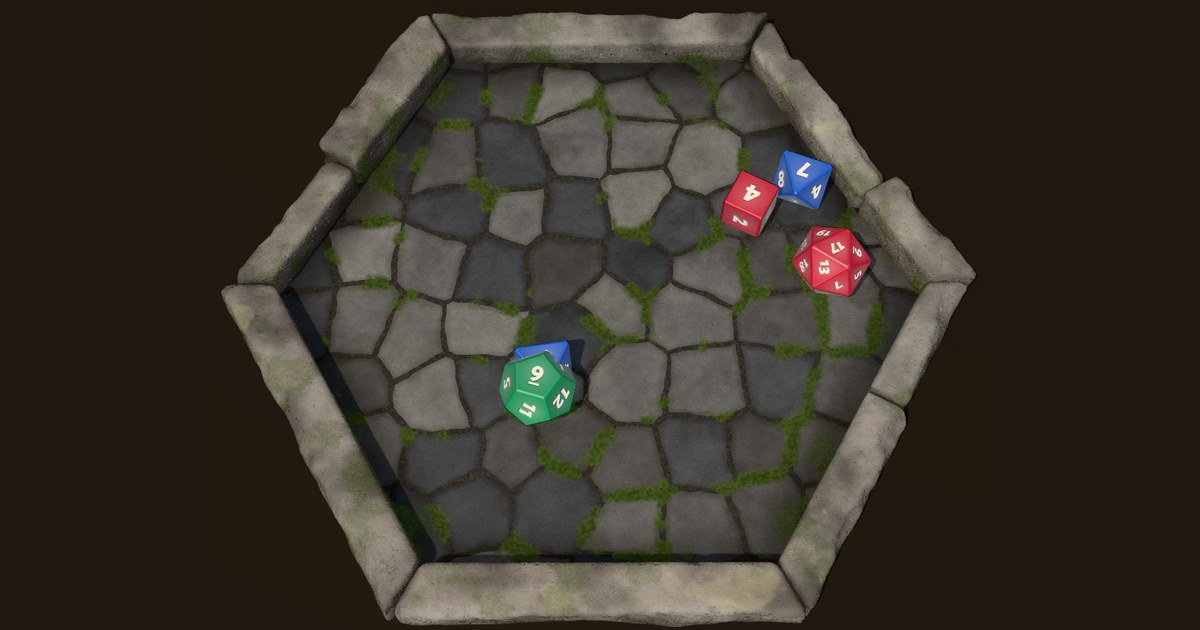
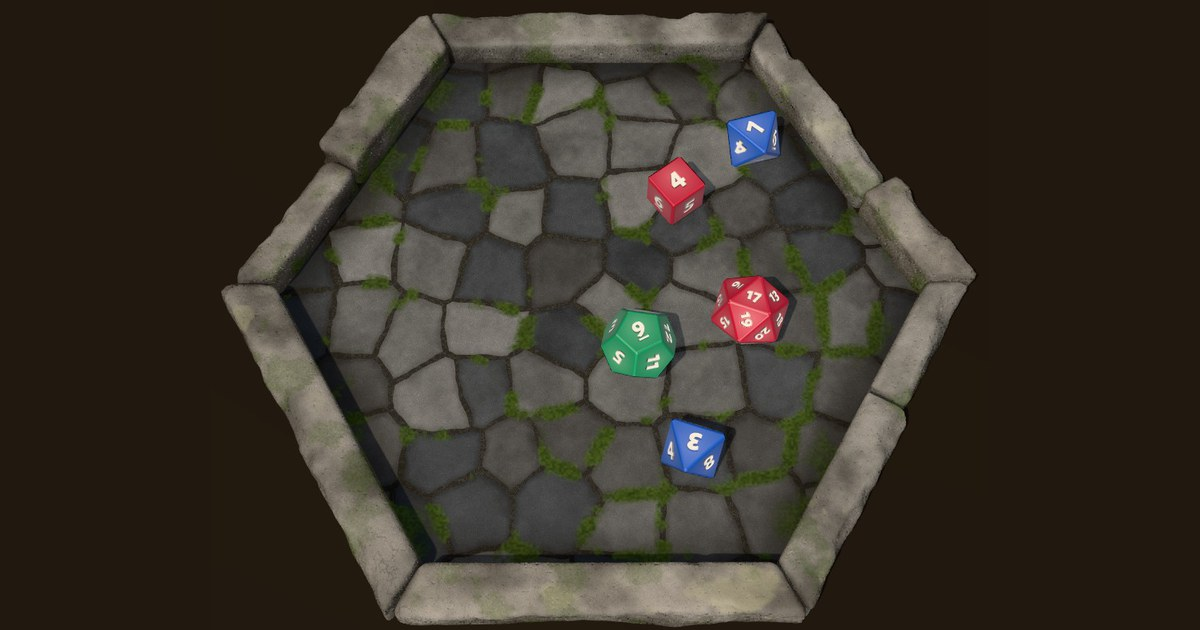
Aggiornate immagini Con nuova fisica per la landing page.

Changed region(s): [[0.4008, 0.181, 0.74, 0.6937], [0.555, 0.6635, 0.6167, 0.754]]

diff --git a/public/build/assets/landing-B5B5URAN.js b/public/build/assets/landing-B5B5URAN.js
@@ -1,0 +1,7 @@
+function __vite__mapDeps(indexes) {
+  if (!__vite__mapDeps.viteFileDeps) {
+    __vite__mapDeps.viteFileDeps = ["assets/landing-stage-B61ssiWm.js","assets/scene-C08E-fg2.js","assets/presets-C0xyDY5r.js"]
+  }
+  return indexes.map((i) => __vite__mapDeps.viteFileDeps[i])
+}
+import{P as L,F as T,T as b}from"./presets-C0xyDY5r.js";const P="modulepreload",$=function(e){return"/build/"+e},w={},O=function(n,s,m){let f=Promise.resolve();if(s&&s.length>0){const l=document.getElementsByTagName("link");f=Promise.all(s.map(t=>{if(t=$(t),t in w)return;w[t]=!0;const r=t.endsWith(".css"),o=r?'[rel="stylesheet"]':"";if(!!m)for(let h=l.length-1;h>=0;h--){const g=l[h];if(g.href===t&&(!r||g.rel==="stylesheet"))return}else if(document.querySelector(`link[href="${t}"]${o}`))return;const i=document.createElement("link");if(i.rel=r?"stylesheet":P,r||(i.as="script",i.crossOrigin=""),i.href=t,document.head.appendChild(i),r)return new Promise((h,g)=>{i.addEventListener("load",h),i.addEventListener("error",()=>g(new Error(`Unable to preload CSS for ${t}`)))})}))}return f.then(()=>n()).catch(l=>{const t=new Event("vite:preloadError",{cancelable:!0});if(t.payload=l,window.dispatchEvent(t),!t.defaultPrevented)throw l})},a=(e,n=document)=>n.querySelector(e),u=(e,n=document)=>[...n.querySelectorAll(e)],R=document.documentElement;R.classList.add("js-ready");const _=matchMedia("(prefers-reduced-motion: reduce)").matches,x=matchMedia("(max-width:899px)"),d=a("#stage"),A=a("#c");let c=null,E="welcome";function k(){(x.matches?a("#diceSlot"):a(".stage-col")).append(d)}k();x.addEventListener("change",k);const I=new IntersectionObserver(e=>{for(const n of e)n.isIntersecting&&(n.target.classList.add("is-in"),I.unobserve(n.target))},{rootMargin:"0px 0px -8% 0px",threshold:.05});u(".reveal").forEach(e=>I.observe(e));function M({who:e,color:n,formula:s,total:m}){a("#toastWho").textContent=e,a("#toastFormula").textContent=s,a("#toastTotal").textContent=m,a("#toastDot").style.background=n}function q(e){!c||x.matches||(e==="throw"?c.table():e==="welcome"&&c.opening())}function C(e){e!==E&&(E=e,d.dataset.state=e,q(e))}const B=new IntersectionObserver(e=>{for(const n of e)n.isIntersecting&&C(n.target.dataset.state)},{rootMargin:"-45% 0px -45% 0px"});u("[data-state]").filter(e=>e!==d).forEach(e=>B.observe(e));function D(){try{const e=document.createElement("canvas");return!!(e.getContext("webgl2")||e.getContext("webgl"))}catch{return!1}}async function y(){if(_||!D())return;try{const{startStage:s}=await O(()=>import("./landing-stage-B61ssiWm.js"),__vite__mapDeps([0,1,2]));c=s(d,A,{onToast:M})}catch{return}setTimeout(()=>d.classList.add("is-live"),250),E==="throw"?c.table():c.opening();let e=!0;const n=()=>c.setPaused(!e||document.hidden);new IntersectionObserver(([s])=>{e=s.isIntersecting,n()}).observe(d),document.addEventListener("visibilitychange",n)}if(x.matches){const e=new IntersectionObserver(([n])=>{n.isIntersecting&&(e.disconnect(),y())},{rootMargin:"100% 0px"});e.observe(a("#diceSlot"))}else(window.requestIdleCallback||(e=>setTimeout(e,200)))(y);const S=u(".dname");S.forEach(e=>e.addEventListener("click",()=>{S.forEach(n=>n.setAttribute("aria-pressed",String(n===e))),a("#dnoteOut").textContent=e.nextElementSibling.textContent,c&&(C("dice"),c.die(e.dataset.type))}));const v=a("#swatches");if(v){const e=[...L.map(t=>({name:t.name,hex:t.hex})),...T.map(t=>({name:t.name,hex:t.hex,texture:t.texture}))],n=t=>{const r=parseInt(t.slice(1),16),o=r>>16,p=r>>8&255,i=r&255;return .2126*o+.7152*p+.0722*i<90},s=u(".die"),m=u(".die-name"),f=a("#youDot"),l=(t,r)=>{u(".sw",v).forEach(o=>o.setAttribute("aria-pressed",String(o===r))),f.style.background=t.texture?`url(${b(t.texture)}) center/cover`:t.hex,s.forEach(o=>{o.style.backgroundColor=t.hex,o.style.backgroundImage=t.texture?`url(${b(t.texture)})`:"none",o.classList.toggle("is-dark",n(t.hex))}),m.forEach(o=>{o.textContent=t.name})};e.forEach(t=>{const r=document.createElement("button");r.type="button",r.className="sw",r.style.backgroundColor=t.hex,r.title=t.name,t.texture&&(r.style.backgroundImage=`url(${b(t.texture)})`),r.setAttribute("aria-label","Dadi "+t.name),r.setAttribute("aria-pressed",String(t.name==="Oro")),r.addEventListener("click",()=>l(t,r)),v.append(r)})}

diff --git a/public/build/assets/landing-stage-B61ssiWm.js b/public/build/assets/landing-stage-B61ssiWm.js
@@ -1,0 +1,1 @@
+import{c as p}from"./scene-C08E-fg2.js";import"./presets-C0xyDY5r.js";const o={rubino:"#b3243a",zaffiro:"#2457b3",smeraldo:"#1f8a5b",ametista:"#7a3fb0",osso:"#e8dcc0",oro:"#d9a72e"},b={who:"Elara",color:o.rubino,list:["d20"],values:[17],seed:20261024},E=[{who:"Elara",color:o.rubino,list:["d6","d20"],values:[4,17],seed:100024},{who:"Thorin",color:o.zaffiro,list:["d8","d8"],values:[3,7],seed:200010},{who:"Mira",color:o.smeraldo,list:["d12"],values:[9],seed:300024}],x={d4:{color:o.oro,throws:[{value:3,seed:1101},{value:1,seed:2202},{value:4,seed:3303}]},d6:{color:o.rubino,throws:[{value:5,seed:4404},{value:2,seed:5505},{value:6,seed:6606}]},d8:{color:o.zaffiro,throws:[{value:8,seed:7707},{value:3,seed:8808},{value:5,seed:9909}]},d10:{color:o.smeraldo,throws:[{value:10,seed:1212},{value:4,seed:2323},{value:7,seed:3434}]},d12:{color:o.ametista,throws:[{value:12,seed:4545},{value:6,seed:5656},{value:2,seed:6767}]},d20:{color:o.osso,throws:[{value:20,seed:7878},{value:11,seed:8989},{value:1,seed:9090}]}},I=["d4","d6","d8","d10","d12","d20"];function T(t){const l={};return t.forEach(s=>{l[s]=(l[s]||0)+1}),I.filter(s=>l[s]).map(s=>l[s]+s).join(" + ")}function R(t,l,{onToast:s}){const h=matchMedia("(max-width:899px)"),i=p(l,t,{pixelRatioMax:1.5,logoInset:()=>({px:h.matches?64:150,side:"top"})});let m=1,d=[];const n={},f=e=>e.reduce((a,u)=>a+u,0),r=e=>i.play({id:m++,playerId:0,color:e.color,list:e.list,values:e.values,seed:e.seed,onDone:()=>s({who:e.who,color:e.color,formula:T(e.list),total:f(e.values)})}),w=(e,a)=>d.push(setTimeout(a,e)),c=()=>{d.forEach(clearTimeout),d=[]};return{opening(){c(),r(b)},table(){c(),E.forEach((e,a)=>w(a*650,()=>r(e)))},die(e){c();const a=x[e],u=n[e]=((n[e]??-1)+1)%a.throws.length,v=a.throws[u];r({who:"Tu",color:a.color,list:[e],values:[v.value],seed:v.seed})},setPaused:i.setPaused}}export{R as startStage};

diff --git a/tests/js/landing-rolls.test.js b/tests/js/landing-rolls.test.js
@@ -1,7 +1,7 @@
 import { describe, expect, it } from 'vitest';
 import * as THREE from 'three';
 import { PROTOS, SIDES, resultFace } from '../../resources/js/dice/geometry.js';
-import { plan, simulate } from '../../resources/js/dice/physics.js';
+import { insideTray, plan, simulate } from '../../resources/js/dice/physics.js';
 import { DICE, OPENING, TABLE, formula } from '../../resources/js/landing-rolls.js';
 
 // Ogni lancio della demo: valori nel range del tipo, seed valido, e la faccia che il dado disegnato
@@ -29,6 +29,14 @@ describe('lanci fissi della landing', () => {
       q.set(F[o + 3], F[o + 4], F[o + 5], F[o + 6]).multiply(qRs[i]);
       expect(PROTOS[type].faces[resultFace(PROTOS[type], q)].value).toBe(r.values[i]);
     });
+  });
+
+  it('i dadi dei tre giocatori si fermano affiancati, non uno sull\'altro', () => {
+    const rest = TABLE.flatMap((r) => { const sim = simulate(r.list, r.seed); return r.list.map((_, i) => { const F = sim.frames[i], o = (sim.steps - 1) * 7; return { who: r.who, x: F[o], z: F[o + 2] }; }); });
+    rest.forEach((a) => expect(insideTray(a.x, a.z, 1.2), a.who).toBe(true));
+    for (let i = 0; i < rest.length; i++) for (let j = i + 1; j < rest.length; j++) {
+      expect(Math.hypot(rest[i].x - rest[j].x, rest[i].z - rest[j].z), `${rest[i].who} e ${rest[j].who}`).toBeGreaterThan(2.4);
+    }
   });
 
   it('il totale di ogni giocatore coincide con quello mostrato nella pagina (21, 10 e 9)', () => {

diff --git a/resources/js/landing-rolls.js b/resources/js/landing-rolls.js
@@ -10,10 +10,12 @@ export const COLORS = {
 export const OPENING = { who: 'Elara', color: COLORS.rubino, list: ['d20'], values: [17], seed: 20261024 };
 
 // Terzo passo: tre giocatori lanciano uno dopo l'altro, e i lanci restano insieme sul tavolo.
+// Nel tavolo vero ogni lancio ha la sua fisica e i dadi di lanci diversi possono sovrapporsi: qui i seed sono scelti
+// (cercando) perché i dadi dei tre lanci si fermino affiancati, a più di 2,7 di distanza.
 export const TABLE = [
-  { who: 'Elara', color: COLORS.rubino, list: ['d6', 'd20'], values: [4, 17], seed: 7311 },
-  { who: 'Thorin', color: COLORS.zaffiro, list: ['d8', 'd8'], values: [3, 7], seed: 90417 },
-  { who: 'Mira', color: COLORS.smeraldo, list: ['d12'], values: [9], seed: 55021 },
+  { who: 'Elara', color: COLORS.rubino, list: ['d6', 'd20'], values: [4, 17], seed: 100024 },
+  { who: 'Thorin', color: COLORS.zaffiro, list: ['d8', 'd8'], values: [3, 7], seed: 200010 },
+  { who: 'Mira', color: COLORS.smeraldo, list: ['d12'], values: [9], seed: 300024 },
 ];
 
 // Sezione dei dadi: a ogni clic sul nome parte il lancio successivo di quel tipo.

diff --git a/resources/views/table/home.blade.php b/resources/views/table/home.blade.php
@@ -143,8 +143,8 @@
       <p class="dnote-out" id="dnoteOut" aria-live="polite"></p>
       <p class="body hint reveal">Tocca un dado per lanciarlo sul tavolo.</p>
       <figure class="shot reveal">
-        <img src="{{ asset('images/landing/table-30.jpg') }}" width="1400" height="1120" loading="lazy" decoding="async" alt="Il tavolo di pietra con trenta dadi rossi di sei tipi, dopo un solo lancio">
-        <figcaption>Trenta dadi in un solo lancio, sul tavolo vero.</figcaption>
+        <img src="{{ asset('images/landing/table-six.jpg') }}" width="1400" height="1134" loading="lazy" decoding="async" alt="Il tavolo di pietra con i dadi di sei giocatori, ognuno del suo colore, fermi uno accanto all'altro">
+        <figcaption>Sei giocatori, due o tre dadi a testa: il tavolo dopo un giro di lanci.</figcaption>
       </figure>
     </section>
   </div>
@@ -262,7 +262,7 @@
     <a href="#dadi">I dadi</a>
     <a href="#domande">Domande</a>
   </nav>
-  <p>2026</p>
+  <p>2026. Realizzato da <a href="https://www.giacomopiva.com" rel="noopener">Giacomo Piva</a></p>
 </footer>
 </body>
 </html>

diff --git a/tests/Feature/LandingTest.php b/tests/Feature/LandingTest.php
@@ -98,3 +98,9 @@ test('la pagina non usa monospace né emoji e ogni sezione ha un titolo', functi
         ->and(substr_count($html, '<h2'))->toBeGreaterThanOrEqual(substr_count($html, '<section class="how')
             + substr_count($html, '<section class="dice') + substr_count($html, '<section class="faq') + substr_count($html, '<section class="cta'));
 });
+
+test('il piè di pagina porta il credito con il link al sito dell\'autore', function () {
+    $this->get('/')->assertOk()
+        ->assertSee('Realizzato da')
+        ->assertSee('<a href="https://www.giacomopiva.com" rel="noopener">Giacomo Piva</a>', false);
+});
